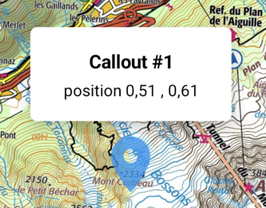
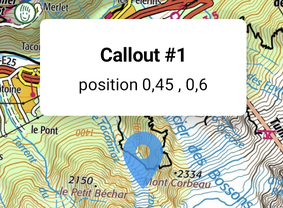
Update images

diff --git a/demo/src/main/java/ovh/plrapps/mapcompose/demo/viewmodels/CalloutVM.kt b/demo/src/main/java/ovh/plrapps/mapcompose/demo/viewmodels/CalloutVM.kt
@@ -27,7 +27,7 @@ class CalloutVM(application: Application) : AndroidViewModel(application) {
 
     /* Define the markers data (id and position) */
     private val markers = listOf(
-        MarkerInfo("Callout #1", 0.14, 0.17),
+        MarkerInfo("Callout #1", 0.45, 0.6),
         MarkerInfo("Callout #2", 0.24, 0.1),
         MarkerInfo(TAP_TO_DISMISS_ID, 0.4, 0.3)
     )
@@ -46,7 +46,7 @@ class CalloutVM(application: Application) : AndroidViewModel(application) {
                 }
             }
 
-            scale = 1f
+            scale = 0f
 
             /**
              * On marker click, add a callout. If the id is [TAP_TO_DISMISS_ID], set auto-dismiss

diff --git a/Readme.md b/Readme.md
@@ -147,8 +147,7 @@ Callouts can be programmatically removed (if automatic dismiss was disabled).
 
 ### Paths
 
-To add a path, use the [addPath](https://github.com/peterLaurence/MapCompose/blob/ac8ead5c7eb9f925e12565822e77b026a6c5fce0/mapcompose/src/main/java/ovh/plrapps/mapcompose/api/PathApi.kt#L10)
-API, like so:
+To add a path, follow these three steps:
 
 ```kotlin
 // 1. Get a PathDataBuilder
@@ -164,11 +163,18 @@ val pathData = builder.build()
 mapState.addPath("pathName", pathData, color = Color(0xFF448AFF), width = 12.dp)
 ```
 
-It's important to note that you can get the `PathDataBuilder` using `makePathDataBuilder` function.
+It's important to note that the only way to get a `PathDataBuilder` is by using the
+`makePathDataBuilder` function. Once you've built your `PathData` instance, you can use the
+use the [addPath](https://github.com/peterLaurence/MapCompose/blob/ac8ead5c7eb9f925e12565822e77b026a6c5fce0/mapcompose/src/main/java/ovh/plrapps/mapcompose/api/PathApi.kt#L10)
+API.
 
 <p align="center">
 <img src="doc/readme-files/path.png">
 </p>
+
+## Callbacks and Listeners
+
+TODO
 
 ## Design changes and differences with MapView
 
